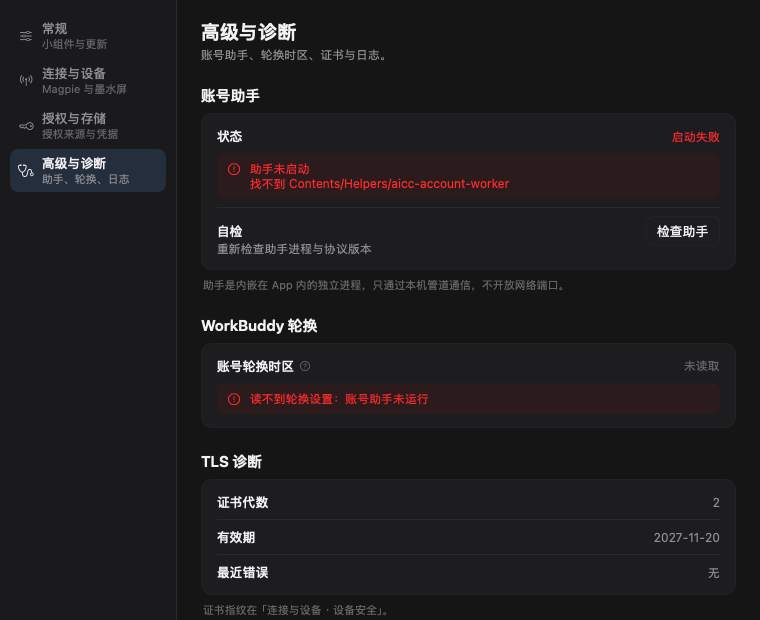
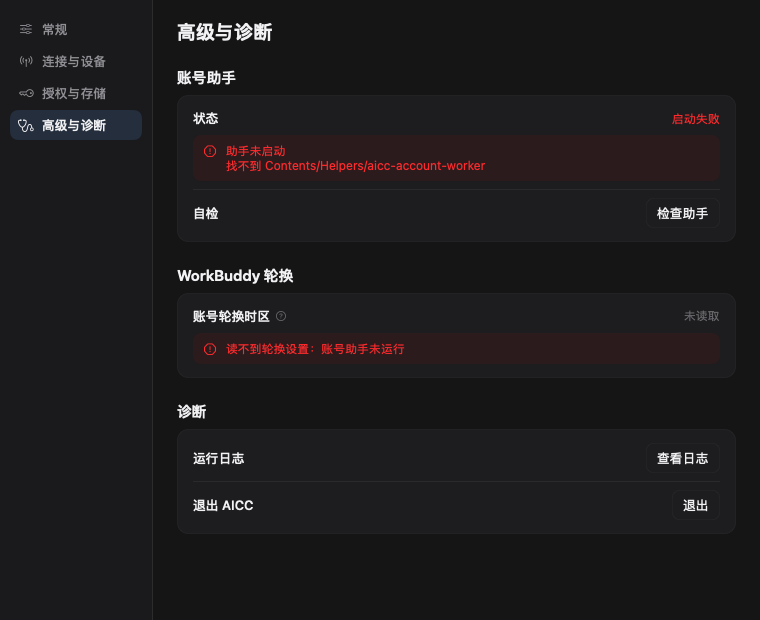
docs(settings): record the copy budget and the delete/hide/keep list
Adds the second-pass rules, the exact strings that were removed, where
the hidden detail went, and what must stay visible. Keeps three
before-simplify renders for comparison and refreshes the after set.

diff --git a/docs/UI_V5_SETTINGS.md b/docs/UI_V5_SETTINGS.md
@@ -130,8 +130,8 @@
 
 | 尺寸 | 行为 |
 |---|---|
-| 960×720（宽） | 左导航 176 固定 + 右侧内容最大宽度 640，增加留白 |
-| 760×620（默认） | 左导航 176 + 内容自适应 |
+| 960×720（宽） | 左导航 152 固定 + 右侧内容最大宽度 640，增加留白 |
+| 760×620（默认） | 左导航 152 + 内容自适应 |
 | 560×520（最小） | 左导航收起为顶部紧凑 Picker，内容单列；不允许隐藏任何设置入口 |
 
 - 内容区独立 `ScrollView`，导航不滚动；页面水平边距 24（比控制台 28 略紧，因窗口更窄）。
@@ -143,15 +143,15 @@
 ```
 SettingsRootView（既有，未改）
 └── SettingsView（改造为 shell）
-    ├── SettingsCategoryNavigation（宽窗左侧 / 窄窗顶部）
+    ├── SettingsCategoryNavigation（宽窗左侧：图标 + 名称，无副标题 / 窄窗顶部）
     └── SettingsDetailScrollView
         ├── GeneralSettingsSection
         ├── ConnectionSettingsSection
         ├── CredentialSettingsSection
         └── AdvancedSettingsSection
 独立详情：
-├── SettingsBridgeSecurityDetail（证书 + 撤销设备）
-├── SettingsCredentialDetail（迁移/核验/回滚/重新关联/逐条状态）
+├── BridgeSecurityDetailView（证书指纹 / 有效期 / 重置身份 / 撤销设备）
+├── CredentialMigrationDetailView（异常 → 检查 → 更多操作）
 ├── PlaintextCredentialSheet（既有，仅换 V5 样式）
 └── QuotaSelectionView（既有，仅换 V5 样式）
 ```
@@ -236,7 +236,8 @@ SettingsRootView（既有，未改）
 | `Settings/SettingsComponents.swift` | 新增 | `SettingsPageHeader` / `SettingsGroup` / `SettingsRow` / `SettingsValueRow` / `DangerRow` / 导航 |
 | `Settings/SettingsSections.swift` | 新增 | 四个分类的内容 |
 | `Settings/SettingsDialogs.swift` | 新增 | 三个 sheet + 三个确认框（集中核对文案） |
-| `Settings/CredentialMigrationDetailView.swift` | 新增（替换 `CredentialMigrationSection.swift`） | 凭据管理详情：盘点、操作、逐条状态 |
+| `Settings/CredentialMigrationDetailView.swift` | 新增（替换 `CredentialMigrationSection.swift`） | 凭据管理详情：摘要 → 异常 → 检查 → 更多操作 |
+| `Settings/BridgeSecurityDetailView.swift` | 新增 | 设备安全详情：指纹、有效期、重置身份、撤销设备 |
 | `Settings/SettingsWorkerPresentation.swift` | 新增 | `AccountWorkerManager.State` → 五种展示状态 |
 | `Settings/PlaintextCredentialSheet.swift` | 重写（仅样式） | 明文风险与显式同意（5 条说明一字未删） |
 | `Settings/QuotaSelectionView.swift` | 重写（仅样式） | 额度窗口选择（顺序、自动、失效项语义不变） |
@@ -268,7 +269,7 @@ SettingsRootView（既有，未改）
 ## 8. 视觉验收（真实 SwiftUI 离屏渲染）
 
 工具：`bash scripts/smoke-test-settings-visual.sh`
-输出：`/private/tmp/aicc-settings-qa`，51 张 PNG。
+输出：`/private/tmp/aicc-settings-qa`，55 张 PNG。
 样本：`macos/SettingsVisual/SettingsVisualState.swift`，固定且脱敏；不含真实令牌、指纹或账号。
 安全：双 flag 构建里 `SettingsModel.loadOnce()` 直接返回，视图不挂任何写操作；`tls.reset` / 撤销设备 / 迁移 / LAN 修改都不会被调用。
 
@@ -278,12 +279,12 @@ SettingsRootView（既有，未改）
 - 连接与设备：Magpie 连接失败、桥接仅本机、LAN 正常、LAN 未监听、运行时缺失、已生成配对码（含最小窗）、登录项失败、证书未准备、证书重置失败、证书已换未重启。
 - 授权与存储：本地 JSON、需要迁移（未核验）、首选授权保存失败（长错误）、助手未运行（禁用态）。
 - 高级与诊断：助手启动失败（深色）、协议不匹配、轮换读取失败。
-- 弹层：凭据管理（浅/深/空盘点）、明文风险（浅/深/失败）、额度选择错误态。
+- 弹层：凭据管理（浅/深/空/有异常/展开）、设备安全（浅/深）、明文风险（浅/深/失败）、额度选择错误态。
 
 ### 8.2 仓库内保存
 
 - `docs/console-v5/settings/before/`：3 张（旧页 580×560 浅/深 + 580×2200 全貌）。
-- `docs/console-v5/settings/after/`：27 张（核心页 × 浅深色、两套边界尺寸、关键状态与弹层）。
+- `docs/console-v5/settings/after/`：31 张（核心页 × 浅深色、两套边界尺寸、关键状态与弹层）。
 - 其余 24 张由 CI Artifact 承载，不进仓库。
 
 ### 8.3 逐轮人工检查与修复
@@ -340,6 +341,7 @@ SettingsRootView（既有，未改）
 | 12 Widget 变更后刷新 | `testWidgetChangeRepublishesAndReloadsTimelines` |
 | 13 加载/错误/未知 | `testLoadStateKeepsUnknownApartFromFailure` |
 | 14 禁用与重复点击 | `testBusyFlowBlocksRepeatedConfirmation` |
+| 文案预算 | `testNoticeBriefDropsTrailingDetail` |
 
 另外补了桥接状态派生（`testBridgePhaseOrdering`、`testBridgePhaseNeverCallsLoopbackNormalWhenLANIsSilentlyMissing`）、LAN 文案、助手状态、凭据摘要与窗口尺寸契约。
 
@@ -368,3 +370,94 @@ SettingsRootView（既有，未改）
 - 未在真实 Magpie 上做连接探测；连接成功/失败的文案由固定样本覆盖。
 - 深色 / 浅色是通过 `NSAppearance` + `preferredColorScheme` 渲染；系统"增强对比度""减少透明度"未单独验收。
 - 语言切换只验证了 `.id(SettingsPresentationIdentity)` 的重建路径；本轮新增文案全部为中文硬编码，与设置页原有做法一致（原有设置页也没有本地化字符串）。
+
+## 11. 第二轮收口：文案预算与减法清单
+
+第一轮建立了四分类结构，但默认页面仍然常驻大量说明。第二轮只做信息减法，不改业务逻辑、不改安全确认。
+
+### 11.1 默认页面的文案预算
+
+| 位置 | 允许 | 不允许 |
+|---|---|---|
+| 左侧导航 | 图标 + 一行分类名 | 副标题、摘要、计数 |
+| 页面 | 一行标题 | 解释页面用途的副标题 |
+| 分组 | 一个短标题 | 默认显示的脚注、机制说明 |
+| 普通设置行 | 名称 + 控件 / 当前值 | 介绍这段设置的段落 |
+| 异常 | 一句话原因 + 处理入口 | 与正常状态并列的长解释 |
+| 操作结果 | 一句摘要（≤44 字） | 常驻的完整日志与备份路径 |
+| 危险操作 | 确认弹窗内完整影响说明 | 默认页面上预演一遍 |
+
+### 11.2 删除（默认页面不再出现）
+
+| 位置 | 删掉的文案 |
+|---|---|
+| 导航 | 「小组件与更新 / Magpie 与墨水屏 / 授权来源与凭据 / 助手、轮换、日志」四行副标题 |
+| 全部页面 | 「桌面小组件与更新。」「Magpie、墨水屏桥接与证书。」「授权来源、凭据存放位置与旧凭据。」「账号助手、轮换时区、证书与日志。」四个 subtitle |
+| 常规 | 「小组件独立读取 Magpie，关闭 AICC 后仍可更新。」 |
+| 常规 | 「在 GitHub 上查看发布说明与安装包」 |
+| 连接与设备 | 「端口与 Magpie 设置里的一致；改动会重启桥接并刷新小组件数据源。」 |
+| 连接与设备 | 「仅使用小组件时无需桥接，关闭窗口即退出 AICC。」 |
+| 连接与设备 | 完整的「证书有效期 / 证书指纹 / 重置会换掉根证书…」常驻块（进详情） |
+| 连接与设备 | 「在墨水屏上输入，2 分钟内有效」改为只在有码时显示「2 分钟内有效」 |
+| 授权与存储 | 「保存位置：钥匙串 7 · Magpie 2」（属来源分布，已移入详情并改名「盘点」） |
+| 授权与存储 | 「之后创建的授权默认写入钥匙串。」「之后创建的授权写入本机 JSON（明文）…」 |
+| 授权与存储 | 「尚未确认明文存储的风险：在启用之前…」 |
+| 授权与存储 | 「查看逐条状态、迁移、核验与回滚」 |
+| 授权与存储 | 钥匙串自检的 `keychain，12 ms`（可用时只说「可用」） |
+| 管理凭据 | 副标题「旧钥匙串授权的盘点、迁移、核验与回滚」 |
+| 管理凭据 | 「这些操作会做什么」折叠说明块 |
+| 管理凭据 | 重复的分组标题「操作 / 盘点」与同义计数 |
+| 管理凭据 | 常驻的备份路径（改为展开区的「完整结果」） |
+| 管理凭据 | 页脚「不会显示任何令牌内容。」与底部第二个「完成」按钮 |
+| 高级与诊断 | 「助手是内嵌在 App 内的独立进程，只通过本机管道通信，不开放网络端口。」 |
+| 高级与诊断 | 完整的轮换规则段落（改为「账号轮换时区」的 help） |
+| 高级与诊断 | 整个「TLS 诊断」分组（证书信息只在设备安全详情里有一份） |
+| 高级与诊断 | 「重新检查助手进程与协议版本」「在 Finder 中打开 AICC 的日志目录」「关闭主控制台、设置窗口与账号助手」 |
+| 高级与诊断 | 助手状态里的 `数据库正常 · WorkBuddy 已登录 · Qoder 已安装`（只留版本与账号数） |
+
+### 11.3 隐藏（进 help / 详情 / 展开区）
+
+| 内容 | 去处 |
+|---|---|
+| 首选授权为什么不影响客户端登录、两种模式的取令牌方式 | 「首选授权」行的 help 图标 |
+| 小尺寸/中尺寸的卡片上限、勾选顺序 | 「显示数量」「显示额度」的 help |
+| LAN 默认只听回环、不打开就连不上 | 「局域网访问」的 help |
+| 轮换时区的固定偏移、不补跑、恢复余量 | 「账号轮换时区」的 help |
+| 证书指纹、有效期、复制、重置身份、撤销设备 | 设备安全详情（独立弹层，520×520） |
+| 迁移/回滚的完整规则、盘点明细、逐条状态、完整备份路径 | 管理凭据 → 更多操作 |
+| 明文存储的 5 条风险 | 点「启用本地 JSON…」时的风险弹层（一字未删） |
+
+### 11.4 保留（必须在默认页面可见）
+
+- 首选授权（Magpie 优先 / 自有优先）。
+- 当前凭据方式，以及「启用本地 JSON…」/「改回钥匙串…」。
+- 待处理数量与「管理凭据…」。
+- 桥接开关、运行状态、配对码、局域网访问、登录时启动、设备安全入口。
+- 一条异常一行：局域网已允许但 HTTPS 未起、运行时缺失、证书未生效、登录项失败、助手启动失败、轮换读取失败、凭据保存失败、首选授权保存失败。
+- 操作结果摘要（迁移/核验/复制指纹）。
+- 迁移/回滚/重新关联/重试四个入口（在「需要处理」与「更多操作」里）。
+- 全部确认弹窗：TLS 重置、撤销设备、启用 JSON、改回钥匙串、迁移、回滚、重新关联、重试旧键。
+
+### 11.5 结构变化
+
+- 设备安全从「常驻 5 行 + 2 个危险按钮」变成主页一行 `HTTPS 状态 + 详情…`；重置与撤销进入 520×520 详情。
+- 桥接关闭时设备安全行显示「已关闭」，入口仍可达，但不展开任何证书信息。
+- 管理凭据从「6 行盘点 + 5 个按钮 + 折叠」重排为：摘要 → 需要处理 → 检查 → 更多操作（迁移/回滚/盘点/逐条/完整结果）。
+- 管理凭据只有右上角一个「关闭」；底部改为结果条（无按钮）。
+- 检查行右侧常驻核验结论（`正常 5` / `异常 2`），失败仍标红。
+- 「诊断」组收纳日志与退出，避免再分出两个只有一行的分组。
+
+### 11.6 本轮截图
+
+- 改造前（第一轮成品）：`docs/console-v5/settings/before-simplify/`（连接、授权、管理凭据 3 张）。
+- 改造后：`docs/console-v5/settings/after/`（31 张，含 560/760/960 × 浅深色、异常态、设备安全详情、管理凭据四态）。
+- 完整 55 张由 CI Artifact `settings-ui-visuals` 承载。
+
+### 11.7 检查结论（560×520 / 760×620 / 960×720 × 浅色 / 深色）
+
+- 连接与设备（桥接关闭）：两行设置 + 设备安全入口，页面无一句解释文字；无裁切。
+- 连接与设备（桥接开启）：6 行，异常只出现一条橙色提示；指纹不再占用日常页面。
+- 授权与存储：三组五行以内；待处理与「管理凭据」同一行；钥匙串自检只说「可用」。
+- 管理凭据：打开即看到「N 项需处理」与三个异常入口；展开「更多操作」后自动滚到迁移/回滚；备份路径只在展开区。
+- 常规 / 高级与诊断：各 2 个与 3 个分组，无脚注。
+- 深色：所有正文与危险按钮对比度保持；弹层有 `ConsoleTheme.canvas` 背景，不再出现灰字压深底。
